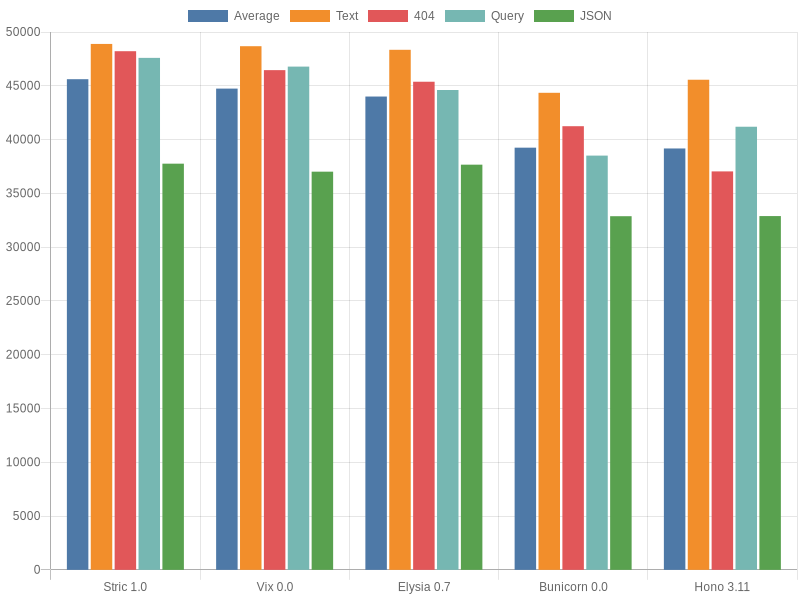
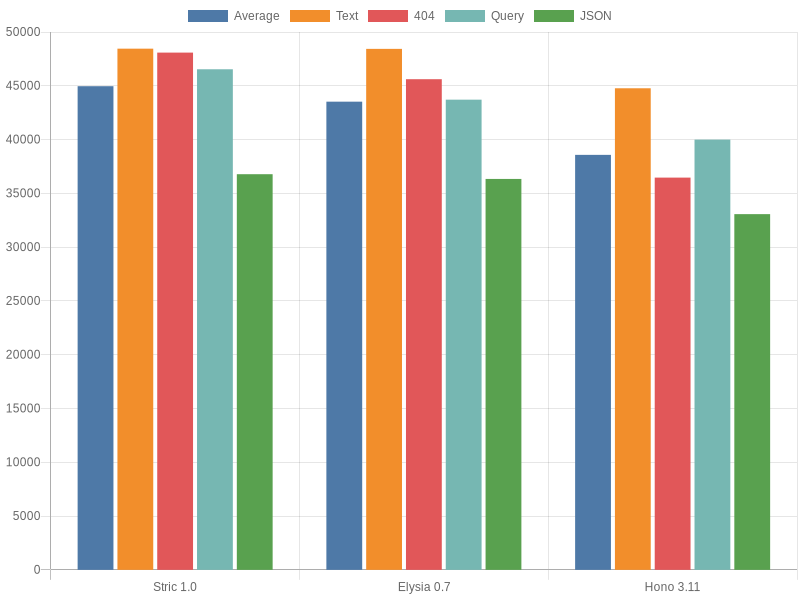
Update

diff --git a/results/index.md b/results/index.md
@@ -1,6 +1,6 @@
 Bun: 1.0.18
 
-Tested at: 13:20, December 16th, 2023
+Tested at: 16:35, December 18th, 2023
 
 ## OS Details
 - Cores: 8
@@ -13,7 +13,7 @@ Tested at: 13:20, December 16th, 2023
 Should return `Hi` as a response.
 ### GET `/a/b`
 Should return a response with status code 404.
-### GET `/api/id/27?name=uMK`
+### GET `/api/id/59?name=KfD`
 Should return the `id` parameter value and the query value, for example `1 a` when the request path is `/id/1?name=a`.
 ### POST `/api/json`
 Return the request body with `Content-Type` set to `application/json`.
@@ -24,10 +24,8 @@ Return the request body with `Content-Type` set to `application/json`.
 - Results are measured in requests per second.
 
 ## Results
-| Name | Average | GET `/` | GET `/a/b` | GET `/api/id/54?name=Mnc` | POST `/api/json` |
+| Name | Average | GET `/` | GET `/a/b` | GET `/api/id/83?name=16I` | POST `/api/json` |
 |  :---: | :---: | :---: | :---: | :---: | :---: |
-| [Stric 1.0](/results/main/Stric) | 45614.83 | 48888.21 | 48215.30 | 47596.22 | 37759.60 |
-| [Vix 0.0](/results/main/Vix) | 44735.14 | 48683.02 | 46457.72 | 46782.85 | 37016.97 |
-| [Elysia 0.7](/results/main/Elysia) | 44000.16 | 48344.62 | 45376.74 | 44610.41 | 37668.86 |
-| [Bunicorn 0.0](/results/main/Bunicorn) | 39244.29 | 44345.44 | 41245.78 | 38508.39 | 32877.54 |
-| [Hono 3.11](/results/main/Hono) | 39170.99 | 45561.52 | 37040.89 | 41190.25 | 32891.31 |
+| [Stric 1.0](/results/main/Stric) | 44962.91 | 48450.07 | 48084.17 | 46538.43 | 36778.98 |
+| [Elysia 0.7](/results/main/Elysia) | 43523.57 | 48428.90 | 45613.26 | 43711.28 | 36340.84 |
+| [Hono 3.11](/results/main/Hono) | 38574.88 | 44768.20 | 36465.75 | 39995.97 | 33069.61 |

diff --git a/README.md b/README.md
@@ -47,16 +47,12 @@ See [configuration file](/config.ts) and the [type declarations](/lib/types.ts).
 ### Table 
 
 
-| Name | Average | GET `/` | GET `/a/b` | GET `/api/id/54?name=Mnc` | POST `/api/json` |
+| Name | Average | GET `/` | GET `/a/b` | GET `/api/id/83?name=16I` | POST `/api/json` |
 |  :---: | :---: | :---: | :---: | :---: | :---: |
-| [Stric 1.0](/results/main/Stric) | 45614.83 | 48888.21 | 48215.30 | 47596.22 | 37759.60 |
-| [Vix 0.0](/results/main/Vix) | 44735.14 | 48683.02 | 46457.72 | 46782.85 | 37016.97 |
-| [Elysia 0.7](/results/main/Elysia) | 44000.16 | 48344.62 | 45376.74 | 44610.41 | 37668.86 |
-| [Bunicorn 0.0](/results/main/Bunicorn) | 39244.29 | 44345.44 | 41245.78 | 38508.39 | 32877.54 |
-| [Hono 3.11](/results/main/Hono) | 39170.99 | 45561.52 | 37040.89 | 41190.25 | 32891.31 |
+| [Stric 1.0](/results/main/Stric) | 44962.91 | 48450.07 | 48084.17 | 46538.43 | 36778.98 |
+| [Elysia 0.7](/results/main/Elysia) | 43523.57 | 48428.90 | 45613.26 | 43711.28 | 36340.84 |
+| [Hono 3.11](/results/main/Hono) | 38574.88 | 44768.20 | 36465.75 | 39995.97 | 33069.61 |
 ## Frameworks
 - [Hono](https://hono.dev): Ultrafast framework for the Edge.
 - [Stric](https://stricjs.netlify.app): A web framework for building high-performance, scalable web applications.
-- [Vix](https://vixeny.dev): Harness the Power of Pure Functionality.
-- [Bunicorn](https://bunicorn.js.org): Fast and type safe Bun, Deno and Edge backend and client framework.
 - [Elysia](https://elysiajs.com): Ergonomic Framework for Humans.
